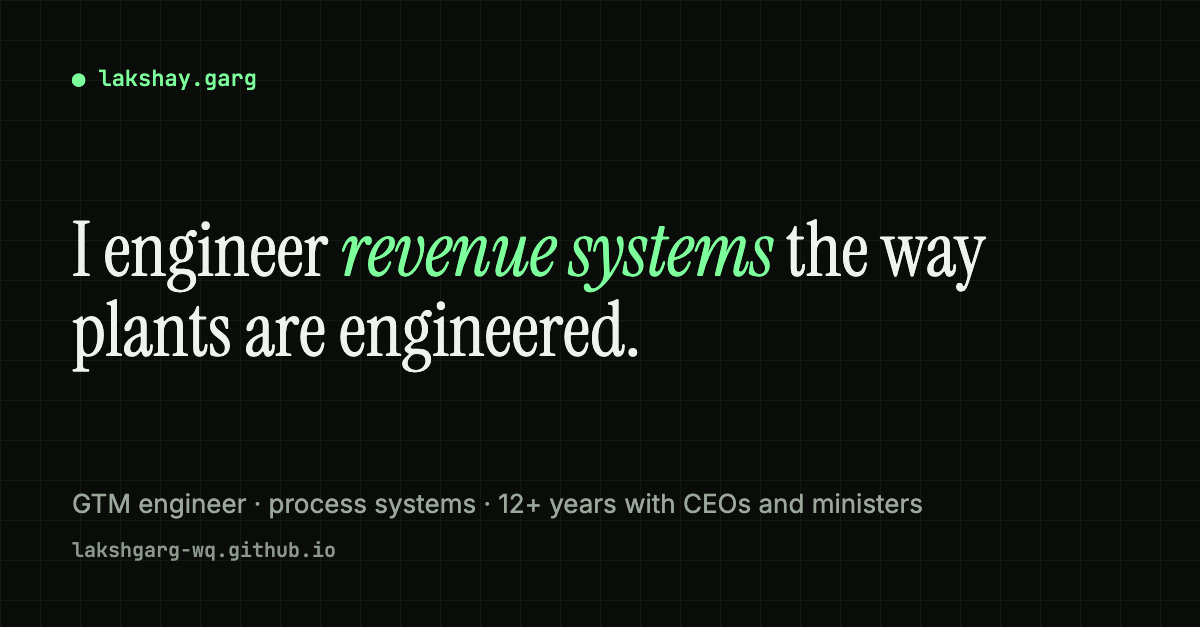
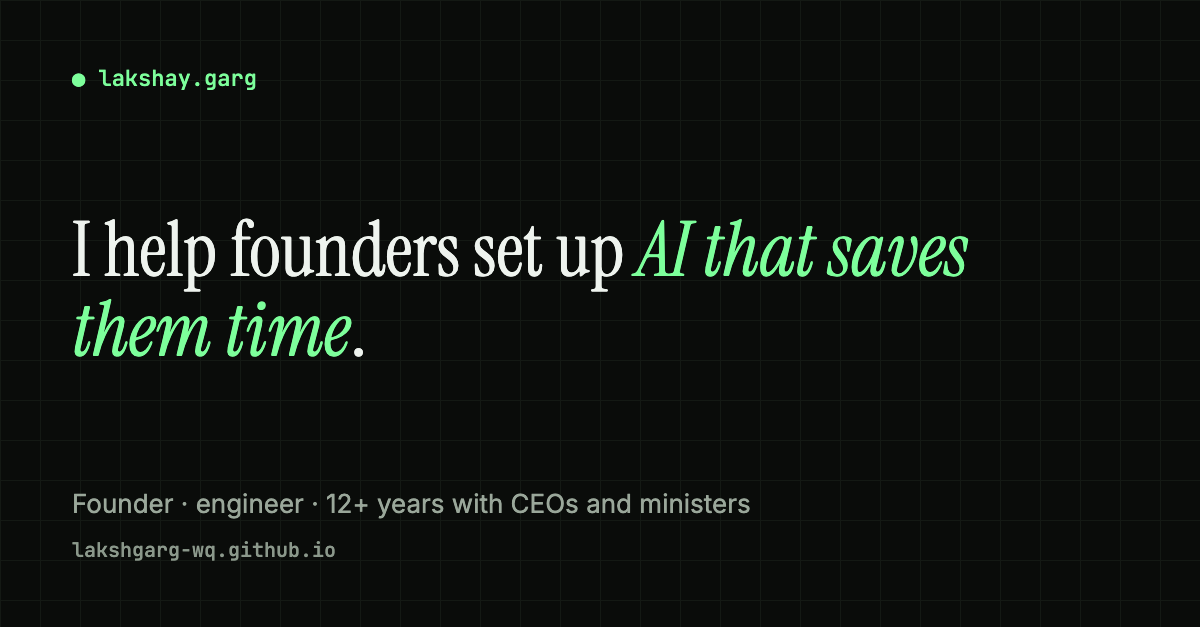
Speak to founders: new homepage top, footer and link preview

Changed region(s): [[0.0617, 0.3333, 0.8325, 0.6061], [0.0617, 0.7879, 0.7708, 0.8182]]

diff --git a/index.html b/index.html
@@ -3,19 +3,19 @@
 <head>
 <meta charset="utf-8">
 <meta name="viewport" content="width=device-width, initial-scale=1">
-<title>Lakshay Garg — GTM Engineer</title>
-<meta name="description" content="Process systems engineer building agentic GTM systems: signal intelligence, account research and outreach pipelines, with a person accountable for every send.">
+<title>Lakshay Garg — AI for founders</title>
+<meta name="description" content="I help founders set up AI in their business. First I look at how you work. Then I build the tools that save you time.">
 <link rel="preconnect" href="https://fonts.googleapis.com"><link href="https://fonts.googleapis.com/css2?family=Inter:wght@400;500;600;700&family=JetBrains+Mono:wght@400;500;700&family=Instrument+Serif:ital@0;1&display=swap" rel="stylesheet">
-<meta property="og:title" content="Lakshay Garg — GTM Engineer"><meta property="og:description" content="Process systems engineer building agentic GTM systems: signal intelligence, account research and outreach pipelines, with a person accountable for every send."><meta property="og:url" content="https://lakshgarg-wq.github.io/"><meta property="og:image" content="https://lakshgarg-wq.github.io/og/home.png"><meta name="twitter:card" content="summary_large_image">
+<meta property="og:title" content="Lakshay Garg — AI for founders"><meta property="og:description" content="I help founders set up AI in their business. First I look at how you work. Then I build the tools that save you time."><meta property="og:url" content="https://lakshgarg-wq.github.io/"><meta property="og:image" content="https://lakshgarg-wq.github.io/og/home.png"><meta name="twitter:card" content="summary_large_image">
 <link rel="stylesheet" href="site.css">
 </head>
 <body>
 <div class="wrap">
 <nav class="top"><a class="brand mono" href="index.html"><b>●</b> lakshay.garg</a><span class="links"><a href="index.html#professional">/work</a><a href="index.html#personal">/builds</a><a href="index.html#contact">/contact</a></span></nav>
 <header class="hero">
-  <div class="mono prompt">$ whoami → process systems engineer · GTM engineer</div>
-  <h1>I engineer <em>revenue systems</em> the way plants are engineered: inputs, controls and feedback loops.</h1>
-  <p class="lede">Chemical engineer by training. I've spent 12+ years in the offices of CEOs and ministers turning strategy into systems that organisations run. Today I build agentic GTM systems: signal intelligence, account research and outreach pipelines, with a person accountable for every send.</p>
+  <div class="mono prompt">$ whoami → founder · engineer · AI builder</div>
+  <h1>I help founders set up <em>AI that saves them time</em>.</h1>
+  <p class="lede">I founded and ran a chemicals business, then worked in the offices of CEOs and ministers. Now I build AI tools for founders. I start with how you work, then build what saves you time. You keep the decisions.</p>
   <div class="cta"><a class="btn primary" href="#professional">see the work</a><a class="btn" href="https://www.linkedin.com/in/lakshay-garg-66840947">LinkedIn ↗</a><a class="btn" href="mailto:laksh.garg@gmail.com">email</a></div>
   <div class="path">
     <div><span>2012</span><b>Process engineering</b></div>
@@ -23,7 +23,7 @@
     <div><span>2018</span><b>M&amp;A and IPO advisory, Berlin</b></div>
     <div><span>2021</span><b>Minister's office, Govt. of India</b></div>
     <div><span>2022</span><b>Chief of Staff, Global CEO office</b></div>
-    <div class="now"><span>Now</span><b>Agentic GTM systems, EU + UAE</b></div>
+    <div class="now"><span>Now</span><b>AI tools for founders</b></div>
   </div>
 </header>
 
@@ -57,8 +57,8 @@
   <div class="chips"><span class="chip">Claude Code &amp; agents</span><span class="chip">MCP connectors</span><span class="chip">Python</span><span class="chip">DuckDB / SQL</span><span class="chip">APIs &amp; data pipelines</span><span class="chip">Local models</span><span class="chip">CRM workflows</span><span class="chip">Streamlit / Dash</span><span class="chip">JavaScript</span><span class="chip">Git</span></div>
 </section>
 <footer id="contact">
-  <h2>Have a revenue process that should run itself?</h2>
-  <p>Open to GTM engineering, revenue operations and strategy roles where systems and senior stakeholders meet.</p>
+  <h2>Want AI to take work off your desk?</h2>
+  <p>I help founders set up AI in their business. First I look at how you work. Then I build the tools that save you time.</p>
   <div class="cta"><a class="btn primary" href="mailto:laksh.garg@gmail.com">laksh.garg@gmail.com</a><a class="btn" href="https://www.linkedin.com/in/lakshay-garg-66840947">LinkedIn ↗</a></div>
   <p class="fine mono">© 2026 Lakshay Garg</p>
 </footer>

diff --git a/cases/nse-pulse.html b/cases/nse-pulse.html
@@ -24,8 +24,8 @@
 <div class="chips"><span class="chip">Data pipelines</span><span class="chip">Document AI</span><span class="chip">Dashboards</span><span class="chip">Backtesting</span><span class="chip">Investment research</span></div>
 <div class="next"><span><a href="grantscope.html">← GrantScope</a></span><span><a href="ledgerlens.html">Personalised Trading Monitoring & Intelligence →</a></span></div></main>
 <footer id="contact">
-  <h2>Have a revenue process that should run itself?</h2>
-  <p>Open to GTM engineering, revenue operations and strategy roles where systems and senior stakeholders meet.</p>
+  <h2>Want AI to take work off your desk?</h2>
+  <p>I help founders set up AI in their business. First I look at how you work. Then I build the tools that save you time.</p>
   <div class="cta"><a class="btn primary" href="mailto:laksh.garg@gmail.com">laksh.garg@gmail.com</a><a class="btn" href="https://www.linkedin.com/in/lakshay-garg-66840947">LinkedIn ↗</a></div>
   <p class="fine mono">© 2026 Lakshay Garg</p>
 </footer>

diff --git a/cases/sentinel.html b/cases/sentinel.html
@@ -24,8 +24,8 @@
 <div class="chips"><span class="chip">Intent data</span><span class="chip">Signal design</span><span class="chip">Lead scoring</span><span class="chip">Data pipelines</span><span class="chip">Multi-market GTM</span></div>
 <div class="next"><span><a href="../index.html#professional">← All work</a></span><span><a href="account-intelligence.html">Account intelligence →</a></span></div></main>
 <footer id="contact">
-  <h2>Have a revenue process that should run itself?</h2>
-  <p>Open to GTM engineering, revenue operations and strategy roles where systems and senior stakeholders meet.</p>
+  <h2>Want AI to take work off your desk?</h2>
+  <p>I help founders set up AI in their business. First I look at how you work. Then I build the tools that save you time.</p>
   <div class="cta"><a class="btn primary" href="mailto:laksh.garg@gmail.com">laksh.garg@gmail.com</a><a class="btn" href="https://www.linkedin.com/in/lakshay-garg-66840947">LinkedIn ↗</a></div>
   <p class="fine mono">© 2026 Lakshay Garg</p>
 </footer>

diff --git a/cases/audit-loop.html b/cases/audit-loop.html
@@ -23,8 +23,8 @@
 <div class="chips"><span class="chip">Human-in-the-loop</span><span class="chip">Process design</span><span class="chip">Quality systems</span><span class="chip">Continuous improvement</span><span class="chip">Team enablement</span></div>
 <div class="next"><span><a href="outbound.html">← Outbound orchestration</a></span><span><a href="grantscope.html">GrantScope →</a></span></div></main>
 <footer id="contact">
-  <h2>Have a revenue process that should run itself?</h2>
-  <p>Open to GTM engineering, revenue operations and strategy roles where systems and senior stakeholders meet.</p>
+  <h2>Want AI to take work off your desk?</h2>
+  <p>I help founders set up AI in their business. First I look at how you work. Then I build the tools that save you time.</p>
   <div class="cta"><a class="btn primary" href="mailto:laksh.garg@gmail.com">laksh.garg@gmail.com</a><a class="btn" href="https://www.linkedin.com/in/lakshay-garg-66840947">LinkedIn ↗</a></div>
   <p class="fine mono">© 2026 Lakshay Garg</p>
 </footer>

diff --git a/cases/account-intelligence.html b/cases/account-intelligence.html
@@ -24,8 +24,8 @@
 <div class="chips"><span class="chip">Account intelligence</span><span class="chip">Cross-sell / upsell</span><span class="chip">Data enrichment</span><span class="chip">Pipeline design</span><span class="chip">Token economics</span></div>
 <div class="next"><span><a href="sentinel.html">← Sentinel</a></span><span><a href="outbound.html">Outbound orchestration →</a></span></div></main>
 <footer id="contact">
-  <h2>Have a revenue process that should run itself?</h2>
-  <p>Open to GTM engineering, revenue operations and strategy roles where systems and senior stakeholders meet.</p>
+  <h2>Want AI to take work off your desk?</h2>
+  <p>I help founders set up AI in their business. First I look at how you work. Then I build the tools that save you time.</p>
   <div class="cta"><a class="btn primary" href="mailto:laksh.garg@gmail.com">laksh.garg@gmail.com</a><a class="btn" href="https://www.linkedin.com/in/lakshay-garg-66840947">LinkedIn ↗</a></div>
   <p class="fine mono">© 2026 Lakshay Garg</p>
 </footer>

diff --git a/cases/ledgerlens.html b/cases/ledgerlens.html
@@ -22,8 +22,8 @@
 <div class="chips"><span class="chip">Behavioural analytics</span><span class="chip">Product build</span><span class="chip">Data modelling</span><span class="chip">Self-measurement</span></div>
 <div class="next"><span><a href="nse-pulse.html">← Indian Equity Market Trading Intelligence</a></span><span><a href="chief-of-staff.html">AI chief of staff →</a></span></div></main>
 <footer id="contact">
-  <h2>Have a revenue process that should run itself?</h2>
-  <p>Open to GTM engineering, revenue operations and strategy roles where systems and senior stakeholders meet.</p>
+  <h2>Want AI to take work off your desk?</h2>
+  <p>I help founders set up AI in their business. First I look at how you work. Then I build the tools that save you time.</p>
   <div class="cta"><a class="btn primary" href="mailto:laksh.garg@gmail.com">laksh.garg@gmail.com</a><a class="btn" href="https://www.linkedin.com/in/lakshay-garg-66840947">LinkedIn ↗</a></div>
   <p class="fine mono">© 2026 Lakshay Garg</p>
 </footer>

diff --git a/cases/chief-of-staff.html b/cases/chief-of-staff.html
@@ -23,8 +23,8 @@
 <div class="chips"><span class="chip">Context engineering</span><span class="chip">AI memory</span><span class="chip">Knowledge systems</span><span class="chip">Model routing</span></div>
 <div class="next"><span><a href="ledgerlens.html">← Personalised Trading Monitoring & Intelligence</a></span><span><a href="token-economics.html">Token economics →</a></span></div></main>
 <footer id="contact">
-  <h2>Have a revenue process that should run itself?</h2>
-  <p>Open to GTM engineering, revenue operations and strategy roles where systems and senior stakeholders meet.</p>
+  <h2>Want AI to take work off your desk?</h2>
+  <p>I help founders set up AI in their business. First I look at how you work. Then I build the tools that save you time.</p>
   <div class="cta"><a class="btn primary" href="mailto:laksh.garg@gmail.com">laksh.garg@gmail.com</a><a class="btn" href="https://www.linkedin.com/in/lakshay-garg-66840947">LinkedIn ↗</a></div>
   <p class="fine mono">© 2026 Lakshay Garg</p>
 </footer>

diff --git a/cases/grantscope.html b/cases/grantscope.html
@@ -23,8 +23,8 @@
 <div class="chips"><span class="chip">Data sourcing</span><span class="chip">Entity matching</span><span class="chip">Market mapping</span><span class="chip">Account discovery</span></div>
 <div class="next"><span><a href="audit-loop.html">← Research & audit loop</a></span><span><a href="nse-pulse.html">Indian Equity Market Trading Intelligence →</a></span></div></main>
 <footer id="contact">
-  <h2>Have a revenue process that should run itself?</h2>
-  <p>Open to GTM engineering, revenue operations and strategy roles where systems and senior stakeholders meet.</p>
+  <h2>Want AI to take work off your desk?</h2>
+  <p>I help founders set up AI in their business. First I look at how you work. Then I build the tools that save you time.</p>
   <div class="cta"><a class="btn primary" href="mailto:laksh.garg@gmail.com">laksh.garg@gmail.com</a><a class="btn" href="https://www.linkedin.com/in/lakshay-garg-66840947">LinkedIn ↗</a></div>
   <p class="fine mono">© 2026 Lakshay Garg</p>
 </footer>

diff --git a/cases/outbound.html b/cases/outbound.html
@@ -24,8 +24,8 @@
 <div class="chips"><span class="chip">Agent orchestration</span><span class="chip">Lead scoring</span><span class="chip">AI research</span><span class="chip">Human-in-the-loop</span></div>
 <div class="next"><span><a href="account-intelligence.html">← Account intelligence</a></span><span><a href="audit-loop.html">Research & audit loop →</a></span></div></main>
 <footer id="contact">
-  <h2>Have a revenue process that should run itself?</h2>
-  <p>Open to GTM engineering, revenue operations and strategy roles where systems and senior stakeholders meet.</p>
+  <h2>Want AI to take work off your desk?</h2>
+  <p>I help founders set up AI in their business. First I look at how you work. Then I build the tools that save you time.</p>
   <div class="cta"><a class="btn primary" href="mailto:laksh.garg@gmail.com">laksh.garg@gmail.com</a><a class="btn" href="https://www.linkedin.com/in/lakshay-garg-66840947">LinkedIn ↗</a></div>
   <p class="fine mono">© 2026 Lakshay Garg</p>
 </footer>

diff --git a/cases/token-economics.html b/cases/token-economics.html
@@ -23,8 +23,8 @@
 <div class="chips"><span class="chip">Token economics</span><span class="chip">Cost management</span><span class="chip">Model routing</span><span class="chip">Agent operations</span></div>
 <div class="next"><span><a href="chief-of-staff.html">← AI chief of staff</a></span><span><a href="../index.html#personal">All work →</a></span></div></main>
 <footer id="contact">
-  <h2>Have a revenue process that should run itself?</h2>
-  <p>Open to GTM engineering, revenue operations and strategy roles where systems and senior stakeholders meet.</p>
+  <h2>Want AI to take work off your desk?</h2>
+  <p>I help founders set up AI in their business. First I look at how you work. Then I build the tools that save you time.</p>
   <div class="cta"><a class="btn primary" href="mailto:laksh.garg@gmail.com">laksh.garg@gmail.com</a><a class="btn" href="https://www.linkedin.com/in/lakshay-garg-66840947">LinkedIn ↗</a></div>
   <p class="fine mono">© 2026 Lakshay Garg</p>
 </footer>

diff --git a/tools/og_home.html b/tools/og_home.html
@@ -4,4 +4,4 @@ body{background:#0a0c0a;background-image:linear-gradient(#141914 1px,transparent
 .t{font:500 22px "JetBrains Mono";color:#7dff9b}
 h1{font:400 76px/1.04 "Instrument Serif";margin:0;max-width:1000px} em{color:#7dff9b}
 .s{font-size:26px;color:#9aa79a} .u{font:500 20px "JetBrains Mono";color:#8b988b;margin-top:18px}
-</style></head><body><div class="t">● lakshay.garg</div><h1>I engineer <em>revenue systems</em> the way plants are engineered.</h1><div><div class="s">GTM engineer · process systems · 12+ years with CEOs and ministers</div><div class="u">lakshgarg-wq.github.io</div></div></body></html>
+</style></head><body><div class="t">● lakshay.garg</div><h1>I help founders set up <em>AI that saves them time</em>.</h1><div><div class="s">Founder · engineer · 12+ years with CEOs and ministers</div><div class="u">lakshgarg-wq.github.io</div></div></body></html>

diff --git a/tools/build.py b/tools/build.py
@@ -27,8 +27,8 @@ def head(title, desc, root, og=None, path=""):
 
 def foot():
     return f'''<footer id="contact">
-  <h2>Have a revenue process that should run itself?</h2>
-  <p>Open to GTM engineering, revenue operations and strategy roles where systems and senior stakeholders meet.</p>
+  <h2>Want AI to take work off your desk?</h2>
+  <p>I help founders set up AI in their business. First I look at how you work. Then I build the tools that save you time.</p>
   <div class="cta"><a class="btn primary" href="mailto:{MAIL}">{MAIL}</a><a class="btn" href="{LI}">LinkedIn ↗</a></div>
   <p class="fine mono">© 2026 Lakshay Garg</p>
 </footer>
@@ -202,11 +202,11 @@ def cards(slugs):
         f'<a class="card" href="cases/{s}.html"><div class="k">{CASES[s][0].split("· ")[1]}</div><h3>{NAMES[s] if s != "chief-of-staff" else "AI chief of staff"}</h3><p>{CARD[s]}</p><span class="go">read case →</span></a>'
         for s in slugs) + '</div>'
 
-idx = head("Lakshay Garg — GTM Engineer", "Process systems engineer building agentic GTM systems: signal intelligence, account research and outreach pipelines, with a person accountable for every send.", "", "home")
+idx = head("Lakshay Garg — AI for founders", "I help founders set up AI in their business. First I look at how you work. Then I build the tools that save you time.", "", "home")
 idx += f'''<header class="hero">
-  <div class="mono prompt">$ whoami → process systems engineer · GTM engineer</div>
-  <h1>I engineer <em>revenue systems</em> the way plants are engineered: inputs, controls and feedback loops.</h1>
-  <p class="lede">Chemical engineer by training. I've spent 12+ years in the offices of CEOs and ministers turning strategy into systems that organisations run. Today I build agentic GTM systems: signal intelligence, account research and outreach pipelines, with a person accountable for every send.</p>
+  <div class="mono prompt">$ whoami → founder · engineer · AI builder</div>
+  <h1>I help founders set up <em>AI that saves them time</em>.</h1>
+  <p class="lede">I founded and ran a chemicals business, then worked in the offices of CEOs and ministers. Now I build AI tools for founders. I start with how you work, then build what saves you time. You keep the decisions.</p>
   <div class="cta"><a class="btn primary" href="#professional">see the work</a><a class="btn" href="{LI}">LinkedIn ↗</a><a class="btn" href="mailto:{MAIL}">email</a></div>
   <div class="path">
     <div><span>2012</span><b>Process engineering</b></div>
@@ -214,7 +214,7 @@ idx += f'''<header class="hero">
     <div><span>2018</span><b>M&amp;A and IPO advisory, Berlin</b></div>
     <div><span>2021</span><b>Minister's office, Govt. of India</b></div>
     <div><span>2022</span><b>Chief of Staff, Global CEO office</b></div>
-    <div class="now"><span>Now</span><b>Agentic GTM systems, EU + UAE</b></div>
+    <div class="now"><span>Now</span><b>AI tools for founders</b></div>
   </div>
 </header>
 
